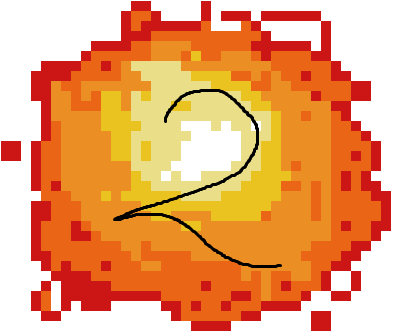
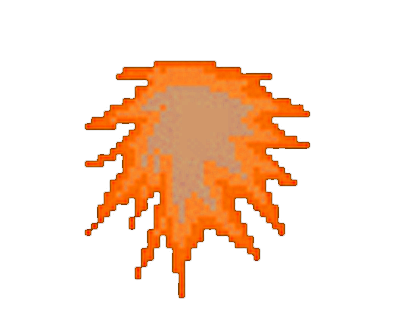
zmiana eksplozji ale brakuje 2 klatek

diff --git a/SpaceShooter.py b/SpaceShooter.py
@@ -49,7 +49,9 @@ PLAYER_BULLET=pygame.transform.scale(pygame.image.load(os.path.join("assets", "p
 #animations
 EXPLOSION=[pygame.transform.scale(pygame.image.load(os.path.join("assets/animations/explosion", "e1.png")).convert_alpha(),(75,75)),
            pygame.transform.scale(pygame.image.load(os.path.join("assets/animations/explosion", "e2.png")).convert_alpha(),(75,75)),
-           pygame.transform.scale(pygame.image.load(os.path.join("assets/animations/explosion", "e3.png")).convert_alpha(),(75,75))]
+           pygame.transform.scale(pygame.image.load(os.path.join("assets/animations/explosion", "e3.png")).convert_alpha(),(75,75)),
+           pygame.transform.scale(pygame.image.load(os.path.join("assets/animations/explosion", "e4.png")).convert_alpha(),(75,75)),
+           pygame.transform.scale(pygame.image.load(os.path.join("assets/animations/explosion", "e5.png")).convert_alpha(),(75,75))]
 
 SHIP1=[pygame.transform.scale(pygame.image.load(os.path.join("assets/animations/ship/1podstawowy", "statek1a.png")).convert_alpha(),(75,75)),
        pygame.transform.scale(pygame.image.load(os.path.join("assets/animations/ship/1podstawowy", "statek1b.png")).convert_alpha(),(75,75)),
